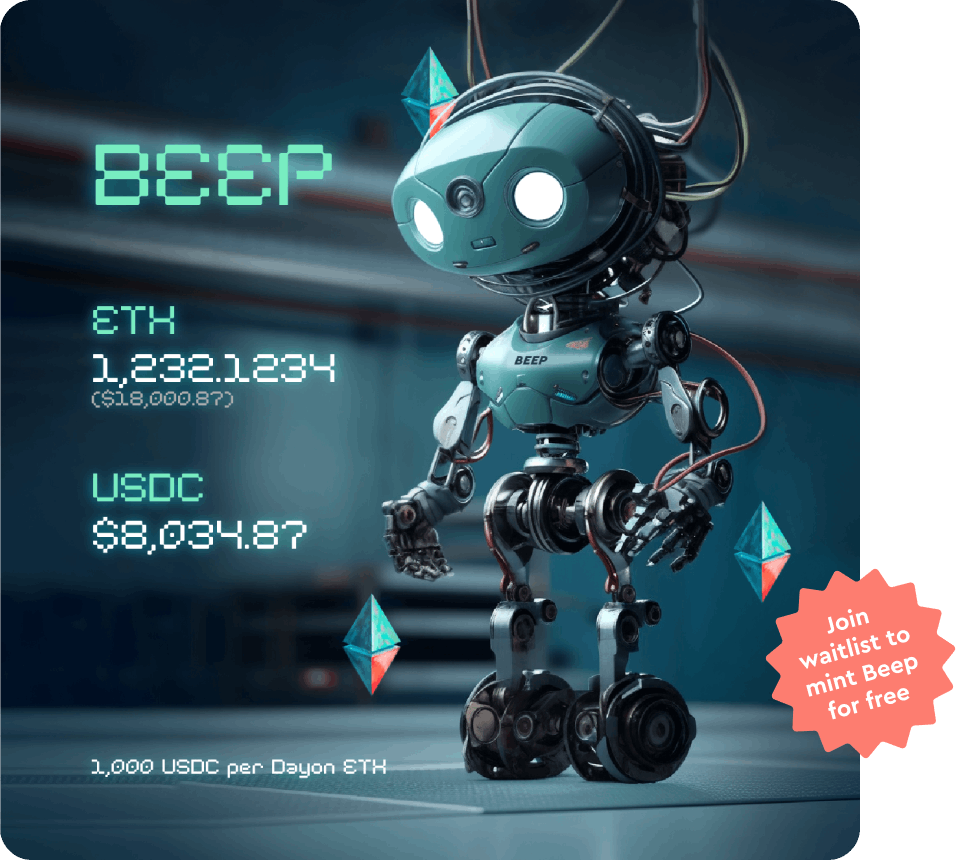
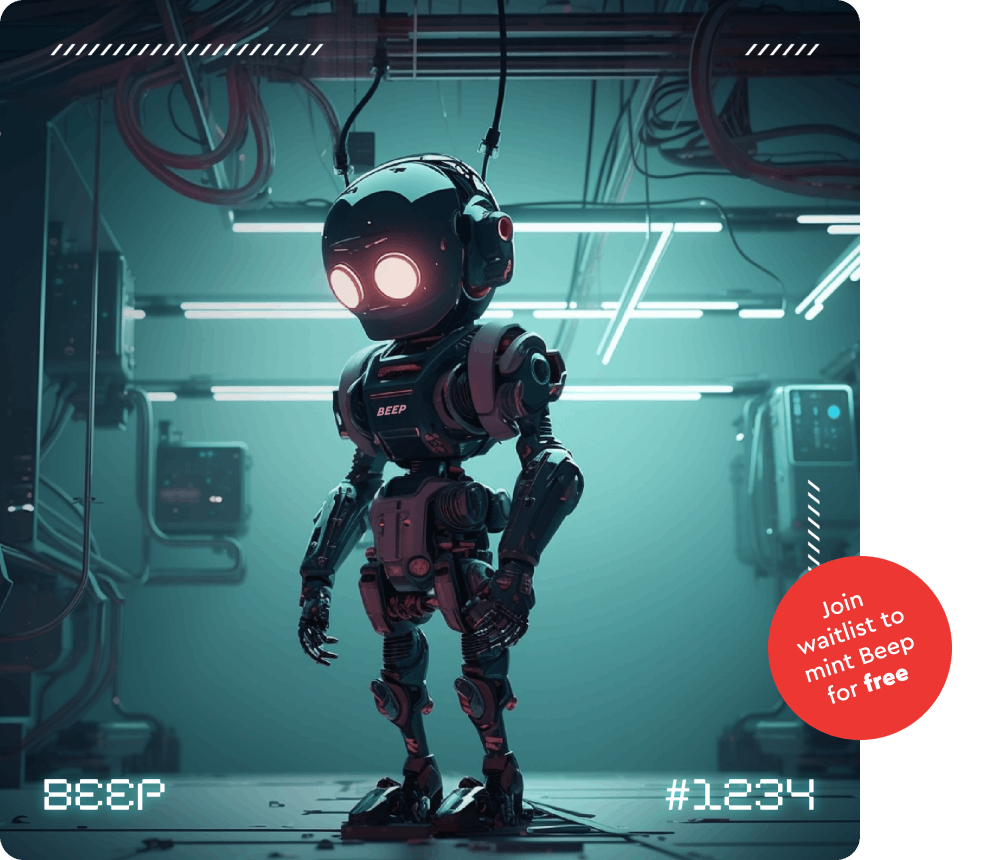
feat(): update beep poster

diff --git a/app/projects/components/main/components/slide_two/index.tsx b/app/projects/components/main/components/slide_two/index.tsx
@@ -10,6 +10,7 @@ import dayjs from 'dayjs'
 import Footer from 'components/footer'
 import ProjectsGrid from 'components/projects/projects_grid'
 import Filters from './components/filters'
+import LogoText from 'public/logo-text.svg'
 
 import { CATEGORY_TYPE_ALL, CATEGORY_TYPE_NEW } from './components/filters'
 
@@ -105,10 +106,21 @@ export default function SlideTwo() {
             />
           </AspectRatio>
           <Box className={classes['mint-beep-description-col']}>
-            <Text className={classes['mint-beep-title']}>BEEP</Text>
-            <Text
-              className={classes['mint-beep-text']}
-            >{`Beep is your personal trading companion and a new take on what's possible with ERC6551 Smart NFTs. Brought to you by Kiosk.`}</Text>
+            <Text className={classes['mint-beep-creator']}>
+              <span>Created by</span>
+              <span className={classes['logo-text']}>
+                <LogoText />
+              </span>
+            </Text>
+            <Text className={classes['mint-beep-title']}>BEEP BOT</Text>
+            <Text className={classes['mint-beep-coming-soon']}>Coming soon</Text>
+            <Text className={classes['mint-beep-text']}>
+              Beep is a Dollar-cost averaging (DCA) bot with a token-bound account.
+              <br />
+              <br />
+              In a volatile market, Beep is your reliable companion, helping you navigate fluctuations by strategically spreading your
+              purchases across different price levels.
+            </Text>
             <Box className={classes['mint-beep-link-container']}>
               <Button
                 component="a"

diff --git a/app/projects/components/main/components/slide_two/styles.module.css b/app/projects/components/main/components/slide_two/styles.module.css
@@ -50,11 +50,19 @@
   padding: 32px 0;
 }
 
+.mint-beep-creator {
+  font-size: 16px;
+  font-weight: 500;
+}
+
+.logo-text {
+  margin-left: 8px;
+}
+
 .mint-beep-title {
   font-size: 80px;
   font-weight: 700;
   line-height: 80px;
-  margin-bottom: 16px;
   text-align: left;
 
   @media (max-width: $mantine-breakpoint-sm) {
@@ -63,8 +71,13 @@
   }
 }
 
-.mint-beep-text {
+.mint-beep-coming-soon {
   color: rgba(128, 128, 128, 1);
+  font-size: 16px;
+  margin-bottom: 16px;
+}
+
+.mint-beep-text {
   font-size: 18px;
   font-weight: 500;
 
